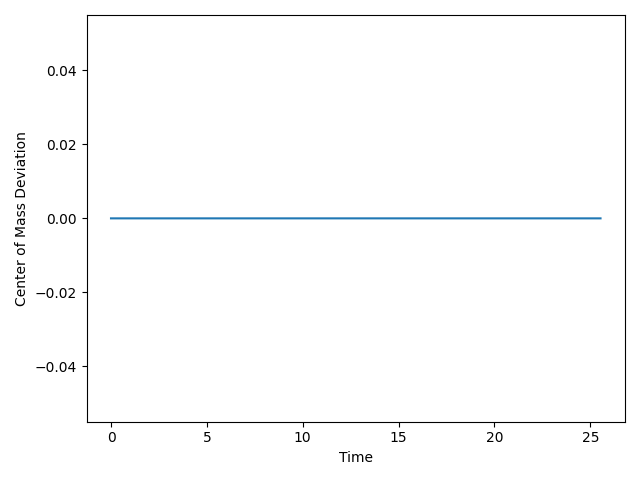
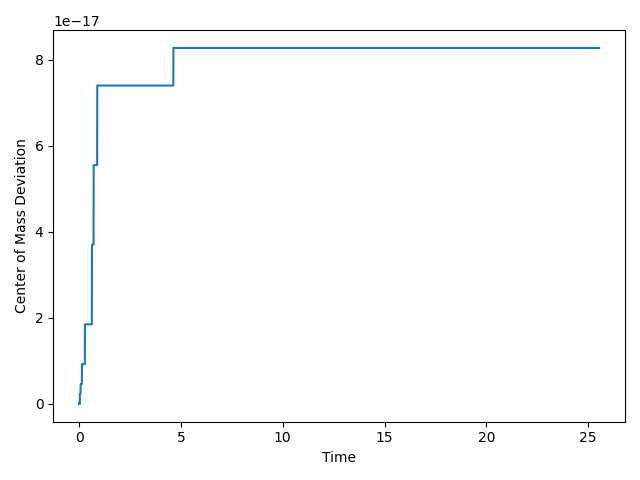
Part 3, mostly copied from part 2. Still need explanations

diff --git a/mass_ratio_limit.py b/mass_ratio_limit.py
@@ -1,0 +1,216 @@
+import numpy as np
+from body import body
+import simulation
+import matplotlib.pyplot as plt
+G=1
+mH = 1
+mL = 1e-6
+body11 = body(mH, (0.0, 0.0), (0.0, 0.8)) 
+body21 = body(mL, (1.0, 0.0), (0.0, 0.0)) 
+bodies = [body11, body21]
+
+simulation.toCenterOfMassFrame(bodies)
+Rcom, Vcom = simulation.centerOfMass(bodies)
+print(f"Initial momentum: {np.linalg.norm(simulation.momentum(bodies))}")
+
+r1 = body11.position
+r2 = body21.position
+
+v1 = body11.velocity
+v2 = body21.velocity
+
+rRel = r2 - r1
+vRel = v2 - v1
+v0 = np.linalg.norm(vRel)
+d = 1
+
+
+aRel = 1/ ((2/d) - (v0**2 / (G * (mH + mL)))) 
+T = 2*np.pi * np.sqrt(aRel**3 / (G * (mH + mL)))
+
+tf = 11 * T
+ti = 0
+nSteps = 10000
+simulation.Verlet(bodies, tf, ti, nSteps)
+t = np.linspace(ti, tf, nSteps+1)
+r1 = np.array(body11.posHistory)
+r2 = np.array(body21.posHistory)
+v1 = np.array(body11.velHistory)
+v2 = np.array(body21.velHistory)
+
+plt.plot(r1[:, 0], r1[:, 1], label = 'Body 1')
+plt.plot(r2[:, 0], r2[:, 1], label = 'Body 2')
+plt.scatter(r1[0, 0], r1[0, 1], marker="x", label="Body 1 initial")
+plt.scatter(r2[0, 0], r2[0, 1], marker="x", label="Body 2 initial")
+
+plt.scatter(Rcom[0], Rcom[1], color="black", label="Center of mass")
+plt.xlabel("x")
+plt.ylabel("y")
+plt.axis("equal")
+plt.legend()
+plt.savefig("Trajectories1.png")
+plt.show()
+
+K1 = 0.5 * mH * np.sum(v1**2, axis = 1)
+K2 = 0.5 * mL * np.sum(v2**2, axis = 1)
+separation = np.linalg.norm(r2 - r1, axis = 1)
+U1 = -0.5 * G * mH * mL / separation
+U2 = -0.5 * G * mH * mL / separation
+E1 = K1 + U1
+E2 = K2 + U2
+K = K1 + K2
+U = U1 + U2
+E = E1 + E2
+
+fig, axes = plt.subplots(3, 1, sharex=True)
+axes[0].plot(t, K1, label = 'Body 1')
+axes[0].plot(t, K2, label = 'Body 2')
+axes[0].plot(t, K, label = 'Total')
+axes[0].set_ylabel('Kinetic Energy')
+axes[1].plot(t, U1, label = 'Body 1')
+axes[1].plot(t, U2, label = 'Body 2')
+axes[1].plot(t, U, label = 'Total')
+axes[1].set_ylabel('Potential Energy')
+axes[2].plot(t, E1, label = 'Body 1')
+axes[2].plot(t, E2, label = 'Body 2')
+axes[2].plot(t, E, label = 'Total')
+axes[2].set_ylabel('Total Energy')
+axes[0].legend()
+axes[2].legend()
+axes[1].legend()
+axes[2].set_xlabel("Time")
+axes[1].set_xlabel("Time")
+axes[0].set_xlabel("Time")
+plt.tight_layout()
+plt.savefig("Energies1.png")
+plt.show()
+
+
+
+radius1 = np.linalg.norm(r1 - Rcom, axis=1)
+radius2 = np.linalg.norm(r2 - Rcom, axis=1)
+
+
+
+
+
+
+
+RcomHistory = (mH*r1 + mL*r2) / (mH+mL)
+RcomDev = []
+for i in range(len(t)):
+        RcomDev.append(np.linalg.norm(RcomHistory[i] - RcomHistory[0]))
+plt.figure()
+plt.plot(t, RcomDev)
+plt.xlabel("Time")
+plt.ylabel("Center of Mass Deviation")
+plt.tight_layout()
+plt.savefig("CenterOfMass1.png")
+plt.show()
+print("Maximum center of mass deviation:", np.max(RcomDev))
+
+
+
+# Simulation 2
+vc = np.sqrt(G * (mH + mL) / d)
+body12 = body(mH, (0.0, 0.0), (0.0, 0.0)) 
+body22 = body(mL, (1.0, 0.0), (0.0, vc)) 
+bodies = [body12, body22]
+
+simulation.toCenterOfMassFrame(bodies)
+Rcom, Vcom = simulation.centerOfMass(bodies)
+print(f"Initial momentum: {np.linalg.norm(simulation.momentum(bodies))}")
+
+r1 = body12.position
+r2 = body22.position
+
+v1 = body12.velocity
+v2 = body22.velocity
+
+rRel = r2 - r1
+vRel = v2 - v1
+v0 = np.linalg.norm(vRel)
+d = 1
+
+aRel = 1/ ((2/d) - (v0**2 / (G * (mH + mL)))) 
+T = 2*np.pi * d / vc
+
+tf = 11 * T
+ti = 0
+nSteps = 10000
+simulation.Verlet(bodies, tf, ti, nSteps)
+t = np.linspace(ti, tf, nSteps+1)
+r1 = np.array(body12.posHistory)
+r2 = np.array(body22.posHistory)
+v1 = np.array(body12.velHistory)
+v2 = np.array(body22.velHistory)
+
+plt.plot(r1[:, 0], r1[:, 1], label = 'Body 1')
+plt.plot(r2[:, 0], r2[:, 1], label = 'Body 2')
+plt.scatter(r1[0, 0], r1[0, 1], marker="x", label="Body 1 initial")
+plt.scatter(r2[0, 0], r2[0, 1], marker="x", label="Body 2 initial")
+
+plt.scatter(Rcom[0], Rcom[1], color="black", label="Center of mass")
+plt.xlabel("x")
+plt.ylabel("y")
+plt.axis("equal")
+plt.legend()
+plt.savefig("Trajectories2.png")
+plt.show()
+
+K1 = 0.5 * mH * np.sum(v1**2, axis = 1)
+K2 = 0.5 * mL * np.sum(v2**2, axis = 1)
+separation = np.linalg.norm(r2 - r1, axis = 1)
+U1 = -0.5 * G * mH * mL / separation
+U2 = -0.5 * G * mH * mL / separation
+E1 = K1 + U1
+E2 = K2 + U2
+K = K1 + K2
+U = U1 + U2
+E = E1 + E2
+
+fig, axes = plt.subplots(3, 1, sharex=True)
+axes[0].plot(t, K1, label = 'Body 1')
+axes[0].plot(t, K2, label = 'Body 2')
+axes[0].plot(t, K, label = 'Total')
+axes[0].set_ylabel('Kinetic Energy')
+axes[1].plot(t, U1, label = 'Body 1')
+axes[1].plot(t, U2, label = 'Body 2')
+axes[1].plot(t, U, label = 'Total')
+axes[1].set_ylabel('Potential Energy')
+axes[2].plot(t, E1, label = 'Body 1')
+axes[2].plot(t, E2, label = 'Body 2')
+axes[2].plot(t, E, label = 'Total')
+axes[2].set_ylabel('Total Energy')
+axes[0].legend()
+axes[2].legend()
+axes[1].legend()
+axes[2].set_xlabel("Time")
+axes[1].set_xlabel("Time")
+axes[0].set_xlabel("Time")
+plt.tight_layout()
+plt.savefig("Energies2.png")
+plt.show()
+
+
+
+radius1 = np.linalg.norm(r1 - Rcom, axis=1)
+radius2 = np.linalg.norm(r2 - Rcom, axis=1)
+
+
+
+
+
+
+RcomHistory = (mH*r1 + mL*r2) / (mH+mL)
+RcomDev = []
+for i in range(len(t)):
+        RcomDev.append(np.linalg.norm(RcomHistory[i] - RcomHistory[0]))
+plt.figure()
+plt.plot(t, RcomDev)
+plt.xlabel("Time")
+plt.ylabel("Center of Mass Deviation")
+plt.tight_layout()
+plt.savefig("CenterOfMass2.png")
+plt.show()
+print("Maximum center of mass deviation:", np.max(RcomDev))
